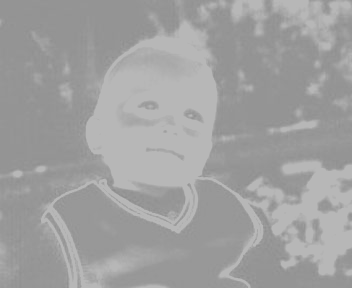
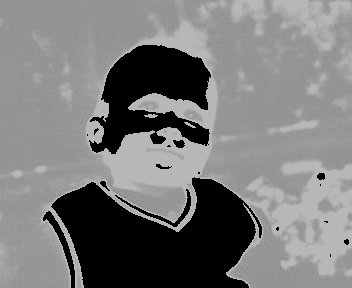
Make HCb1 work Fixed by using int8 instead of uint8, because the latter underflowed and wrapped into high numbers. Numpy does not use saturation arithmetic!

diff --git a/skin_ycbcr.py b/skin_ycbcr.py
@@ -262,9 +262,9 @@ def skin_detect(image_in: str, image_out: str):
   frame_rgb = source.copy()
   perc = width * height * 0.1 / 100
 
-  frame_ycbcr = cv2.cvtColor(frame_rgb, cv2.COLOR_BGR2YCR_CB)
+  frame_ycrcb = cv2.cvtColor(frame_rgb, cv2.COLOR_BGR2YCR_CB)
 
-  y_plane, cr_plane, cb_plane = cv2.split(frame_ycbcr)
+  y_plane, cr_plane, cb_plane = cv2.split(frame_ycrcb)
 
   histCb = calculateHist(cb_plane)
   histCr = calculateHist(cr_plane)
@@ -317,7 +317,7 @@ def skin_detect(image_in: str, image_out: str):
   if max_valCr != -1:
     if max_valCr > CrMax:
       max_valCr = CrMax
-    minMaxCr = calculateValueMinMaxY(frame_ycbcr, max_valCr, histYCr, 1)
+    minMaxCr = calculateValueMinMaxY(frame_ycrcb, max_valCr, histYCr, 1)
     if max_valCr < CrMax:
       CrMax = max_valCr
   print('minmaxCr')
@@ -327,7 +327,7 @@ def skin_detect(image_in: str, image_out: str):
   if min_valCb != -1:
     if min_valCb < CbMin:
       min_valCb = CbMin
-    minMaxCb = calculateValueMinMaxY(frame_ycbcr, min_valCb, histYCb, 2)
+    minMaxCb = calculateValueMinMaxY(frame_ycrcb, min_valCb, histYCb, 2)
     if min_valCb > CbMin:
       CbMin = min_valCb
 
@@ -373,9 +373,20 @@ def skin_detect(image_in: str, image_out: str):
 
   print(time.time()-time_start)
 
-  Y = y_plane
+  Y = np.int8(y_plane)
   Cr = cr_plane
   Cb = cb_plane
+
+  print(Y)
+  print('YYYYYYYYYY')
+  print(type(Y))
+  datt= (Y - Y2)
+  datb = np.clip(Y - Y2, 0, 255).astype(np.uint8)
+  # CbMin + hCb * ((Y - Y2) / (YMin - Y2))
+  print(datt)
+  print(datb)
+  print(np.max(datt))
+  print(np.min(datt))
 
   # Calculate HCr
   #print(Y >= YMin)
@@ -408,15 +419,16 @@ def skin_detect(image_in: str, image_out: str):
   #HCb1 = HCb1 + abs(np.min(HCb1))
   #print(np.min(HCb1))
 
-
   #print('NPMAX')
   #print(np.max(np.uint8(HCb3)))
   cv2.imwrite('hcr.png', HCr)
-  cv2.imwrite('hcb.png', np.uint8(HCb1))
+  cv2.imwrite('hcb.png', HCb1)
 
   dCr = Cr - CrMin
   DCr = HCr - CrMin
   DCb = CbMax - HCb
+
+  #cv2.imwrite('DCr.png', DCr)
 
   if ACr > ACb:
     D1Cr = DCr * ACb / ACr
